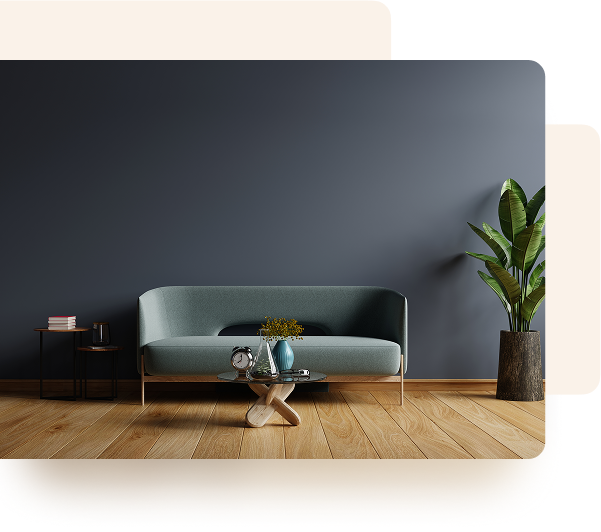
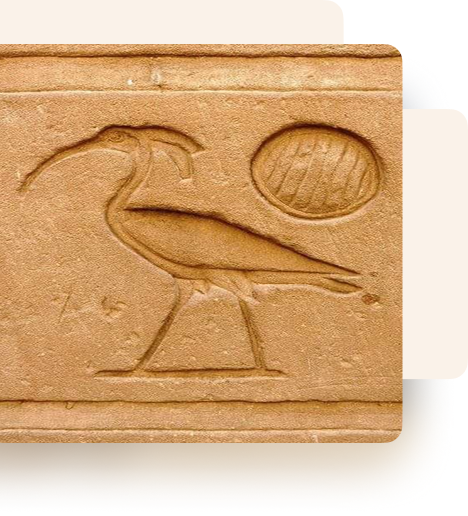
Two image was added

diff --git a/flutter_service_worker.js b/flutter_service_worker.js
@@ -3,10 +3,10 @@ const MANIFEST = 'flutter-app-manifest';
 const TEMP = 'flutter-temp-cache';
 const CACHE_NAME = 'flutter-app-cache';
 
-const RESOURCES = {".git/COMMIT_EDITMSG": "c69dbdb923266ee80f354b725575c860",
+const RESOURCES = {".git/COMMIT_EDITMSG": "22cf34e2573ee7a8c17b87ac6adc4c0b",
 ".git/config": "9a328ad70538c6a56374d8cd49d6d8cd",
 ".git/description": "a0a7c3fff21f2aea3cfa1d0316dd816c",
-".git/FETCH_HEAD": "641f64c8fed30e9e0612b19391524b4f",
+".git/FETCH_HEAD": "8f5537cbe4a36372d0f77e2e5b7d7fea",
 ".git/HEAD": "cf7dd3ce51958c5f13fece957cc417fb",
 ".git/hooks/applypatch-msg.sample": "ce562e08d8098926a3862fc6e7905199",
 ".git/hooks/commit-msg.sample": "579a3c1e12a1e74a98169175fb913012",
@@ -22,12 +22,13 @@ const RESOURCES = {".git/COMMIT_EDITMSG": "c69dbdb923266ee80f354b725575c860",
 ".git/hooks/push-to-checkout.sample": "c7ab00c7784efeadad3ae9b228d4b4db",
 ".git/hooks/sendemail-validate.sample": "4d67df3a8d5c98cb8565c07e42be0b04",
 ".git/hooks/update.sample": "647ae13c682f7827c22f5fc08a03674e",
-".git/index": "9a9275dfd1cad0ee5fa964d14e4e3d5b",
+".git/index": "6a0465110a723e156f320f8294a0203c",
 ".git/info/exclude": "036208b4a1ab4a235d75c181e685e5a3",
-".git/logs/HEAD": "7199156723bbfe6c93b300e8390c2216",
-".git/logs/refs/heads/main": "7199156723bbfe6c93b300e8390c2216",
-".git/logs/refs/remotes/origin/main": "d653ab17e36b801c5dfb2fc2abfa86cd",
+".git/logs/HEAD": "d4525ac9035050d1005834e4a11ddf8f",
+".git/logs/refs/heads/main": "d4525ac9035050d1005834e4a11ddf8f",
+".git/logs/refs/remotes/origin/main": "466f51295b27cfe83fed875f76da4e46",
 ".git/objects/00/3660e74bd90dec09150faa0346b74b78c4eb4f": "6640bfb61d989ea5f35fc54e15749096",
+".git/objects/02/0c0fe881411185eec1c5d96568d25e28dd7be6": "42f6c864d43f6c1abacd8facc392ff51",
 ".git/objects/02/1d4f3579879a4ac147edbbd8ac2d91e2bc7323": "9e9721befbee4797263ad5370cd904ff",
 ".git/objects/04/6ae07789b97e8b2aa058bd8bcd7480e757cd2a": "b680022970426dacdb08b19b877bdadc",
 ".git/objects/05/ddbb8146ce4033b2951ebed8dc56790e60aeb4": "92492e6edaa5a7f1254c13d64a0c35ef",
@@ -52,6 +53,7 @@ const RESOURCES = {".git/COMMIT_EDITMSG": "c69dbdb923266ee80f354b725575c860",
 ".git/objects/2e/9958af8f9547f3cf40936b1039c4f0654abfdf": "a1fb8a4ec1080912651f6c0b8b1210b7",
 ".git/objects/2f/bf22bc000874af14b14a5afba0813166c49ec0": "57a8c36eca81d27a73492164e9f44ff2",
 ".git/objects/34/70e1a172a92fd2be1f945ff4eafaad1ee5a9b5": "f13f8edd202f60548db328acaf5bfc5c",
+".git/objects/3a/110a3ac8fb84fbcbea47d53ba8c930f7820d66": "19e2b0b7f6e63ac50ffaba6bcc00a942",
 ".git/objects/41/149362f6977dafe301e30cd76acd7f6ad8cec4": "2fc681c6e086b9f76cc6364adaf050df",
 ".git/objects/43/52f3e39dd3899a5298e91ad27af91b07a041f7": "a696849feb5587bf03f0761403a4005f",
 ".git/objects/46/4ab5882a2234c39b1a4dbad5feba0954478155": "2e52a767dc04391de7b4d0beb32e7fc4",
@@ -63,29 +65,37 @@ const RESOURCES = {".git/COMMIT_EDITMSG": "c69dbdb923266ee80f354b725575c860",
 ".git/objects/59/5298d6f3b0a65a504acf1fe6f3123890ef937a": "1950ebce580849571c962241960d65b9",
 ".git/objects/5c/3fd562b7880ee1766219b13f84edaf923916b7": "7be72b9b5c3c0bc102df144507dd115c",
 ".git/objects/5c/e244d94f446d9eea6336d61794632a51514e7a": "d5be589967aea4ad0aa2f0839680a96a",
+".git/objects/5d/710104a95fa1f9397cb427c03ae52678f15f44": "56602c7053ae46d9c3d2651a30257bb9",
 ".git/objects/5f/7c449c98de7564ad4e854d659022cd8b4adf0d": "65fa1496c97462fb4c53a0c123d6cf40",
 ".git/objects/5f/95037db5ef2247a50c34748d38c14d1640ed62": "e2262be0d7f3b360b7614ea47ca234d2",
 ".git/objects/5f/a0aaf2500d588c29deb26bca45357f45ec15a8": "fb13c7a63a794b86daa371719a73cedf",
+".git/objects/6a/f498f1f7643f26f9889ed82c0b8d0ebdeecd5f": "36d87667eb4321b293a488570bd05122",
 ".git/objects/6b/9862a1351012dc0f337c9ee5067ed3dbfbb439": "85896cd5fba127825eb58df13dfac82b",
 ".git/objects/6e/0da66e6684af1ecfe13a18545b99cc9529f383": "532ab627120a210cb25ac252d1e45fd5",
 ".git/objects/6e/65f7a7ff72d4a1a19c2d8c5cac38d9788b3bec": "22b511b6f01f926b51a5573cd4becef3",
+".git/objects/6f/bc1ace566f3f0b626a2c17e59d8770f10d90cc": "26fe7b215b2688e9620a27f85056ba44",
 ".git/objects/72/50072d37f6907c46fa8009573ebed51e97db30": "86c7b314baec03fbaf13a31b415e6470",
 ".git/objects/77/d046f185cf5a4d8546621a6feee5dc0e4eb642": "22ef039c211cae1d43bd234b6f8b49db",
 ".git/objects/7a/3e7ccc0dcfd25c8dcef6d206661713762b0311": "6653b01dc147f3dcdfd8842639bcdd78",
 ".git/objects/7a/6c1911dddaea52e2dbffc15e45e428ec9a9915": "f1dee6885dc6f71f357a8e825bda0286",
 ".git/objects/7a/95dd2c7d83e274036d3aa47cc27848f30f648a": "22be43c3ed5c85a754d9d71f3eee8f37",
+".git/objects/7a/bf332c1f34f88b5e2fb2121041c4bd28eeb095": "fc9a8644176a875d112101d7b6f1a151",
 ".git/objects/7b/896e039e512c95d9666b2cde75421a3f057e08": "dc190996403dd60c1451e4322fef64eb",
 ".git/objects/7e/e09e185386a158c32a225b1d1a2af107d70b45": "bcccdc139220fcdc0e6924c6676c084d",
 ".git/objects/82/e412986534c61279d868feab7a2bb829b2d31c": "dc87d76024883c9da7e4b0c809ebdd4e",
 ".git/objects/83/d60aef3319ff615cfb5446b94995fdefd3d057": "e3137d7d56c46a8c622f24aeea31df81",
 ".git/objects/86/245718ddf7e7cbd32fe51aebde1983812a4a5e": "92db5fdac1d53a6df166caf5e5a7dd9f",
+".git/objects/86/4a80cd6071dcefbc260a302f087fd5d249149f": "dd5413c1d0874638a0a2f6d484def9f0",
 ".git/objects/86/c709a581333679895d16825e74efdf2c7859a4": "a4323455b7e0f3ede2fd94c1a8294c60",
 ".git/objects/88/c086d700207c81c066663622191d0058d9544a": "911fe9590da0c55fea580c48dc161770",
 ".git/objects/88/cfd48dff1169879ba46840804b412fe02fefd6": "e42aaae6a4cbfbc9f6326f1fa9e3380c",
 ".git/objects/89/514916f918e98a6876d3ac3c02ba6bf1d10d66": "c93bc61663633b40778a49a2c058297f",
 ".git/objects/8a/aa46ac1ae21512746f852a42ba87e4165dfdd1": "1d8820d345e38b30de033aa4b5a23e7b",
+".git/objects/8b/d80c39c39c8ae2c6b42e4bfee14031105bb2da": "7154230c0473c9e8d82325177fa525e4",
 ".git/objects/8d/740d6ab5e701531140869965408091a5f06a86": "0021612a622720e51fc8c134751667b2",
+".git/objects/8e/418f547ca733e3385eb84619451a7f5e51f464": "3506025e5900a1d09fa66d24b23dc071",
 ".git/objects/8f/ee74fb573b616e91d392cf64d9ea2a00620717": "2c6e345bdabefaba5b0e48e857dd189f",
+".git/objects/91/c0fc2d525834582a799e52d0011b1c3a82a352": "65fa0389a13bb9f5d9f0a2373b3fc3d5",
 ".git/objects/92/b9b2a61cbbd5ffb3ddb2723970aea049bf1b23": "136482c4148a96cac1eb300edd6b5886",
 ".git/objects/95/ad968896bbf0205fb122ccb7aec03faa795fe2": "471be51eddd058b6aaa93e51a70033e2",
 ".git/objects/97/d3fd83d17cee464c8e1a53e026e002b1fd3e65": "1714703ef73833a9498b3b54c0f602ad",
@@ -94,6 +104,7 @@ const RESOURCES = {".git/COMMIT_EDITMSG": "c69dbdb923266ee80f354b725575c860",
 ".git/objects/99/080981ff3e8cf0ba0ceb31bb914fa7373270ae": "72699dd44401cbd89ed45a1f3a60c956",
 ".git/objects/9b/3ef5f169177a64f91eafe11e52b58c60db3df2": "91d370e4f73d42e0a622f3e44af9e7b1",
 ".git/objects/9e/3b4630b3b8461ff43c272714e00bb47942263e": "accf36d08c0545fa02199021e5902d52",
+".git/objects/a0/4fb30bfdf3c1f584a2b51d08ef7bdc1acd9804": "3459b0f2610f8d9f56db1cb642f15f54",
 ".git/objects/a1/7e697fa9523d78080d0f26b97e08964dbdeda4": "7efa96016c499f7aff0f5a030b7ce598",
 ".git/objects/a5/0b23d48d2ae6e40e9675093c341fdbc8d36b6a": "80eb4d45a8e5551dbff0f80b59a368d0",
 ".git/objects/a5/36fd8baa0df58c6928ee10b30a0cc2418af53c": "c5f132bb3fad4dbaaba7ca8a4d77c8dc",
@@ -101,6 +112,7 @@ const RESOURCES = {".git/COMMIT_EDITMSG": "c69dbdb923266ee80f354b725575c860",
 ".git/objects/a6/75972c5f6d04cd39775a8bcc44ee0e20355770": "198109734bcb637bf5575d62d3c54e64",
 ".git/objects/a7/193db02c5f924f6f29a15ddc917abd3212cebb": "acf1e1f7dbd164667856c5d6c9f84abe",
 ".git/objects/ae/a1b5aa65ff699f56be20041762b86d4958fc09": "6ad5f68b3a2b840497c2a31d8c29401f",
+".git/objects/b5/756e513d301e2baa52bfa3dd3238dff0a02757": "935d5fb448a533cabafae2a81d105779",
 ".git/objects/b6/b8806f5f9d33389d53c2868e6ea1aca7445229": "b14016efdbcda10804235f3a45562bbf",
 ".git/objects/b7/49bfef07473333cf1dd31e9eed89862a5d52aa": "36b4020dca303986cad10924774fb5dc",
 ".git/objects/b7/c8d75232b4862636b11935114cb4112a483e32": "3e37fcb2971f49e475f2521c2541d861",
@@ -116,6 +128,7 @@ const RESOURCES = {".git/COMMIT_EDITMSG": "c69dbdb923266ee80f354b725575c860",
 ".git/objects/d3/af982b5f0df875a7b9637a83b50eba61a5332a": "87a49bcdeaeb73256c776476a09df5f4",
 ".git/objects/d4/3532a2348cc9c26053ddb5802f0e5d4b8abc05": "3dad9b209346b1723bb2cc68e7e42a44",
 ".git/objects/d4/f12e3eaad67e2e092efa7592f964b692ceb6f1": "f3b5f1cc3a61bf629ef57401852384bc",
+".git/objects/d5/ae323e3b7f514d4bf5df351b40df40586e1b26": "5dd689c78e0d9d2cd4781a2e0753f72f",
 ".git/objects/d6/693cac3b58931711413dbfd42a34d7dfdce4a5": "991e7ed7e9021e98e064add9d92cffc3",
 ".git/objects/d6/9c56691fbdb0b7efa65097c7cc1edac12a6d3e": "868ce37a3a78b0606713733248a2f579",
 ".git/objects/d7/7cfefdbe249b8bf90ce8244ed8fc1732fe8f73": "9c0876641083076714600718b0dab097",
@@ -143,9 +156,9 @@ const RESOURCES = {".git/COMMIT_EDITMSG": "c69dbdb923266ee80f354b725575c860",
 ".git/objects/fc/d83e445fb73573ca06faea86d746d051e094f4": "29e2a4ffbd8e07ddbd0c599780e1d048",
 ".git/objects/fe/3b987e61ed346808d9aa023ce3073530ad7426": "dc7db10bf25046b27091222383ede515",
 ".git/objects/fe/4413eefa8e135f3cc9d0e10db6833d3473ff0a": "0c79a718f6221b64905ac00c1e805be1",
-".git/ORIG_HEAD": "091f605a601116f59984acc2bcca0630",
-".git/refs/heads/main": "091f605a601116f59984acc2bcca0630",
-".git/refs/remotes/origin/main": "091f605a601116f59984acc2bcca0630",
+".git/ORIG_HEAD": "a1a64c702f2838bf08eb53728dee816f",
+".git/refs/heads/main": "a1a64c702f2838bf08eb53728dee816f",
+".git/refs/remotes/origin/main": "a1a64c702f2838bf08eb53728dee816f",
 "assets/AssetManifest.bin": "cc3520269597a18d49e30910b6668b28",
 "assets/AssetManifest.bin.json": "7ec7b709843b0d8c8c2dd2c88408ecd1",
 "assets/AssetManifest.json": "f80fa2a2acb64958a4b4f165cd3a0c20",
@@ -209,8 +222,8 @@ const RESOURCES = {".git/COMMIT_EDITMSG": "c69dbdb923266ee80f354b725575c860",
 "assets/assets/linkedin_logo.png": "577fb2aa9c4a910a327cc382049eefc4",
 "assets/assets/logo.png": "7b18332a4352162dcfd8f34995e1fc7d",
 "assets/assets/pic_1.png": "a72464fa0e619fdcbdbb7c30b731b674",
-"assets/assets/pic_2.png": "4856d2e37590f10c668a38b26cbca5a8",
-"assets/assets/pic_3.png": "c1969a3b1fb93487a1568ab88ac5a036",
+"assets/assets/pic_2.png": "40d4b6389fe653b041d5a944ffb5724b",
+"assets/assets/pic_3.png": "6920e7ceecf2455582bff1f479c42ed4",
 "assets/assets/pic_4.png": "0c3bdc5af833edb460ba7e536a799fd9",
 "assets/assets/pic_5.png": "994e1e92dde87b26c618cbeb72552745",
 "assets/assets/pic_6.png": "fc6e78f6d554ba79dfd9777bd9626efe",
@@ -234,7 +247,7 @@ const RESOURCES = {".git/COMMIT_EDITMSG": "c69dbdb923266ee80f354b725575c860",
 "canvaskit/skwasm_heavy.wasm": "8034ad26ba2485dab2fd49bdd786837b",
 "favicon.png": "5dcef449791fa27946b3d35ad8803796",
 "flutter.js": "888483df48293866f9f41d3d9274a779",
-"flutter_bootstrap.js": "b05d9231494d9cc6b3d01b3b1e6df846",
+"flutter_bootstrap.js": "28bcb3fdcf2054dcef47ef674a81ac80",
 "icons/Icon-192.png": "ac9a721a12bbc803b44f645561ecb1e1",
 "icons/Icon-512.png": "96e752610906ba2a93c65f8abe1645f1",
 "icons/Icon-maskable-192.png": "c457ef57daa1d16f64b27b786ec2ea3c",

diff --git a/flutter_bootstrap.js b/flutter_bootstrap.js
@@ -38,6 +38,6 @@ _flutter.buildConfig = {"engineRevision":"d3d45dcf251823c1769909cd43698d126db38d
 
 _flutter.loader.load({
   serviceWorkerSettings: {
-    serviceWorkerVersion: "3986067543"
+    serviceWorkerVersion: "609931825"
   }
 });
